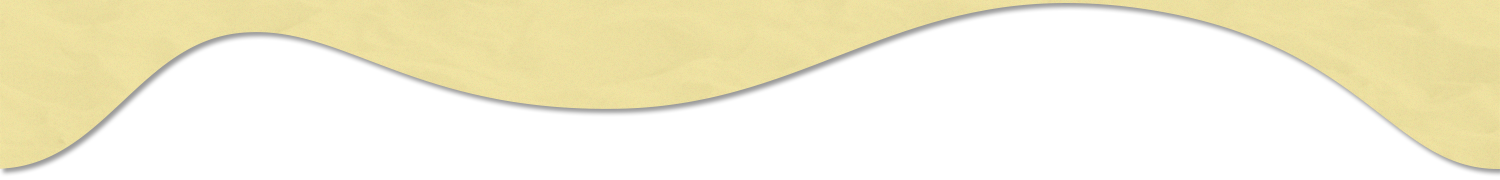
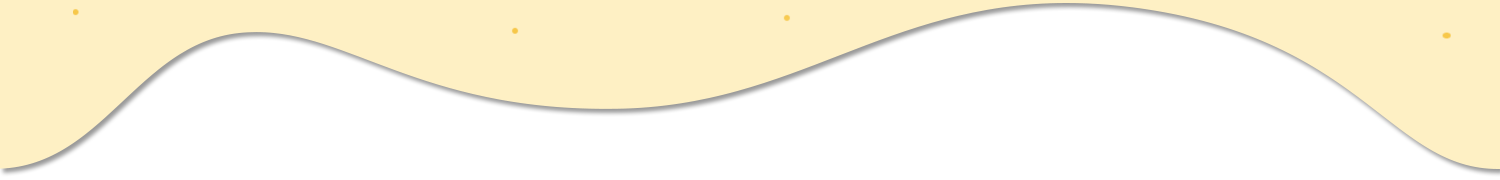
update to sand texture. Reduced file size by 90%

diff --git a/2014/css/application.css b/2014/css/application.css
@@ -854,6 +854,11 @@ strong, .strong {
     bottom: 25%;
   }
   /* line 13, ../scss/modules/_sprites.scss */
+  header:before {
+    left: 28%;
+    bottom: 40%;
+  }
+  /* line 15, ../scss/modules/_sprites.scss */
   header h1:before {
     background-image: url('../images/sprites-s81af367ff4.png');
     background-position: 0 -685px;
@@ -863,9 +868,10 @@ strong, .strong {
     height: 104px;
     width: 98px;
     bottom: -14%;
-    left: 4%;
+    right: 4%;
+    left: auto;
   }
-  /* line 18, ../scss/modules/_sprites.scss */
+  /* line 20, ../scss/modules/_sprites.scss */
   header h2:before {
     background-image: url('../images/sprites-s81af367ff4.png');
     background-position: -90px 0;
@@ -877,7 +883,7 @@ strong, .strong {
     bottom: 30%;
     left: 23%;
   }
-  /* line 23, ../scss/modules/_sprites.scss */
+  /* line 25, ../scss/modules/_sprites.scss */
   header h3:before {
     background-image: url('../images/sprites-s81af367ff4.png');
     background-position: 0 0;
@@ -889,7 +895,7 @@ strong, .strong {
     bottom: 23%;
     left: 24%;
   }
-  /* line 28, ../scss/modules/_sprites.scss */
+  /* line 30, ../scss/modules/_sprites.scss */
   header h3:after {
     background-image: url('../images/sprites-s81af367ff4.png');
     background-position: 0 -150px;
@@ -901,7 +907,7 @@ strong, .strong {
     bottom: 25%;
     left: 29%;
   }
-  /* line 33, ../scss/modules/_sprites.scss */
+  /* line 35, ../scss/modules/_sprites.scss */
   header h2:after {
     background-image: url('../images/sprites-s81af367ff4.png');
     background-position: 0 -368px;
@@ -914,7 +920,7 @@ strong, .strong {
     right: 5%;
     left: auto;
   }
-  /* line 38, ../scss/modules/_sprites.scss */
+  /* line 40, ../scss/modules/_sprites.scss */
   header h1:after {
     background-image: url('../images/sprites-s81af367ff4.png');
     background-position: -39px -79px;
@@ -923,11 +929,11 @@ strong, .strong {
     display: block;
     height: 64px;
     width: 87px;
-    top: 60%;
-    right: 30%;
+    top: 40%;
+    right: 24%;
     left: auto;
   }
-  /* line 43, ../scss/modules/_sprites.scss */
+  /* line 45, ../scss/modules/_sprites.scss */
   header:after {
     background-image: url('../images/sprites-s81af367ff4.png');
     background-position: -81px -368px;
@@ -952,7 +958,7 @@ strong, .strong {
   }
 }
 @media screen and (min-width: 700px) and (-webkit-min-device-pixel-ratio: 2), screen and (min-width: 700px) and (-o-min-device-pixel-ratio: 3 / 2), screen and (min-width: 700px) and (min-device-pixel-ratio: 2) {
-  /* line 13, ../scss/modules/_sprites.scss */
+  /* line 15, ../scss/modules/_sprites.scss */
   header h1:before {
     background-image: url('../images/sprites-2x-s49afbe8350.png');
     background-size: 140px 1380px;
@@ -962,7 +968,7 @@ strong, .strong {
   }
 }
 @media screen and (min-width: 700px) and (-webkit-min-device-pixel-ratio: 2), screen and (min-width: 700px) and (-o-min-device-pixel-ratio: 3 / 2), screen and (min-width: 700px) and (min-device-pixel-ratio: 2) {
-  /* line 18, ../scss/modules/_sprites.scss */
+  /* line 20, ../scss/modules/_sprites.scss */
   header h2:before {
     background-image: url('../images/sprites-2x-s49afbe8350.png');
     background-size: 140px 1380px;
@@ -972,7 +978,7 @@ strong, .strong {
   }
 }
 @media screen and (min-width: 700px) and (-webkit-min-device-pixel-ratio: 2), screen and (min-width: 700px) and (-o-min-device-pixel-ratio: 3 / 2), screen and (min-width: 700px) and (min-device-pixel-ratio: 2) {
-  /* line 23, ../scss/modules/_sprites.scss */
+  /* line 25, ../scss/modules/_sprites.scss */
   header h3:before {
     background-image: url('../images/sprites-2x-s49afbe8350.png');
     background-size: 140px 1380px;
@@ -982,7 +988,7 @@ strong, .strong {
   }
 }
 @media screen and (min-width: 700px) and (-webkit-min-device-pixel-ratio: 2), screen and (min-width: 700px) and (-o-min-device-pixel-ratio: 3 / 2), screen and (min-width: 700px) and (min-device-pixel-ratio: 2) {
-  /* line 28, ../scss/modules/_sprites.scss */
+  /* line 30, ../scss/modules/_sprites.scss */
   header h3:after {
     background-image: url('../images/sprites-2x-s49afbe8350.png');
     background-size: 140px 1380px;
@@ -992,7 +998,7 @@ strong, .strong {
   }
 }
 @media screen and (min-width: 700px) and (-webkit-min-device-pixel-ratio: 2), screen and (min-width: 700px) and (-o-min-device-pixel-ratio: 3 / 2), screen and (min-width: 700px) and (min-device-pixel-ratio: 2) {
-  /* line 33, ../scss/modules/_sprites.scss */
+  /* line 35, ../scss/modules/_sprites.scss */
   header h2:after {
     background-image: url('../images/sprites-2x-s49afbe8350.png');
     background-size: 140px 1380px;
@@ -1002,7 +1008,7 @@ strong, .strong {
   }
 }
 @media screen and (min-width: 700px) and (-webkit-min-device-pixel-ratio: 2), screen and (min-width: 700px) and (-o-min-device-pixel-ratio: 3 / 2), screen and (min-width: 700px) and (min-device-pixel-ratio: 2) {
-  /* line 38, ../scss/modules/_sprites.scss */
+  /* line 40, ../scss/modules/_sprites.scss */
   header h1:after {
     background-image: url('../images/sprites-2x-s49afbe8350.png');
     background-size: 140px 1380px;
@@ -1012,7 +1018,7 @@ strong, .strong {
   }
 }
 @media screen and (min-width: 700px) and (-webkit-min-device-pixel-ratio: 2), screen and (min-width: 700px) and (-o-min-device-pixel-ratio: 3 / 2), screen and (min-width: 700px) and (min-device-pixel-ratio: 2) {
-  /* line 43, ../scss/modules/_sprites.scss */
+  /* line 45, ../scss/modules/_sprites.scss */
   header:after {
     background-image: url('../images/sprites-2x-s49afbe8350.png');
     background-size: 140px 1380px;
@@ -1031,7 +1037,7 @@ strong, .strong {
 
 /* line 16, ../scss/application.scss */
 html {
-  background: transparent url("../images/sand.jpg") repeat;
+  background: #fef0c4 url("../images/texture.png") repeat-y;
 }
 
 /* line 17, ../scss/application.scss */

diff --git a/2014/scss/modules/_sprites.scss b/2014/scss/modules/_sprites.scss
@@ -10,9 +10,11 @@
       bottom: 25%;
     }
 
+    &:before{left: 28%; bottom: 40%;}
+
     h1:before{
       @include sprite-background("turtle");
-      bottom: -14%; left: 4%;
+      bottom: -14%; right: 4%; left: auto;
     }
 
     h2:before{
@@ -37,7 +39,7 @@
 
     h1:after{
       @include sprite-background("shell");
-      top: 60%; right: 30%; left: auto;
+      top: 40%; right: 24%; left: auto;
     }
 
     &:after{

diff --git a/2014/scss/application.scss b/2014/scss/application.scss
@@ -13,7 +13,7 @@
 
 @include border-box-sizing;
 
-html{ background: transparent url('../images/sand.jpg') repeat;}
+html{ background: #FEF0C4 url('../images/texture.png') repeat-y;}
 body { position: relative;}
 
 a {
